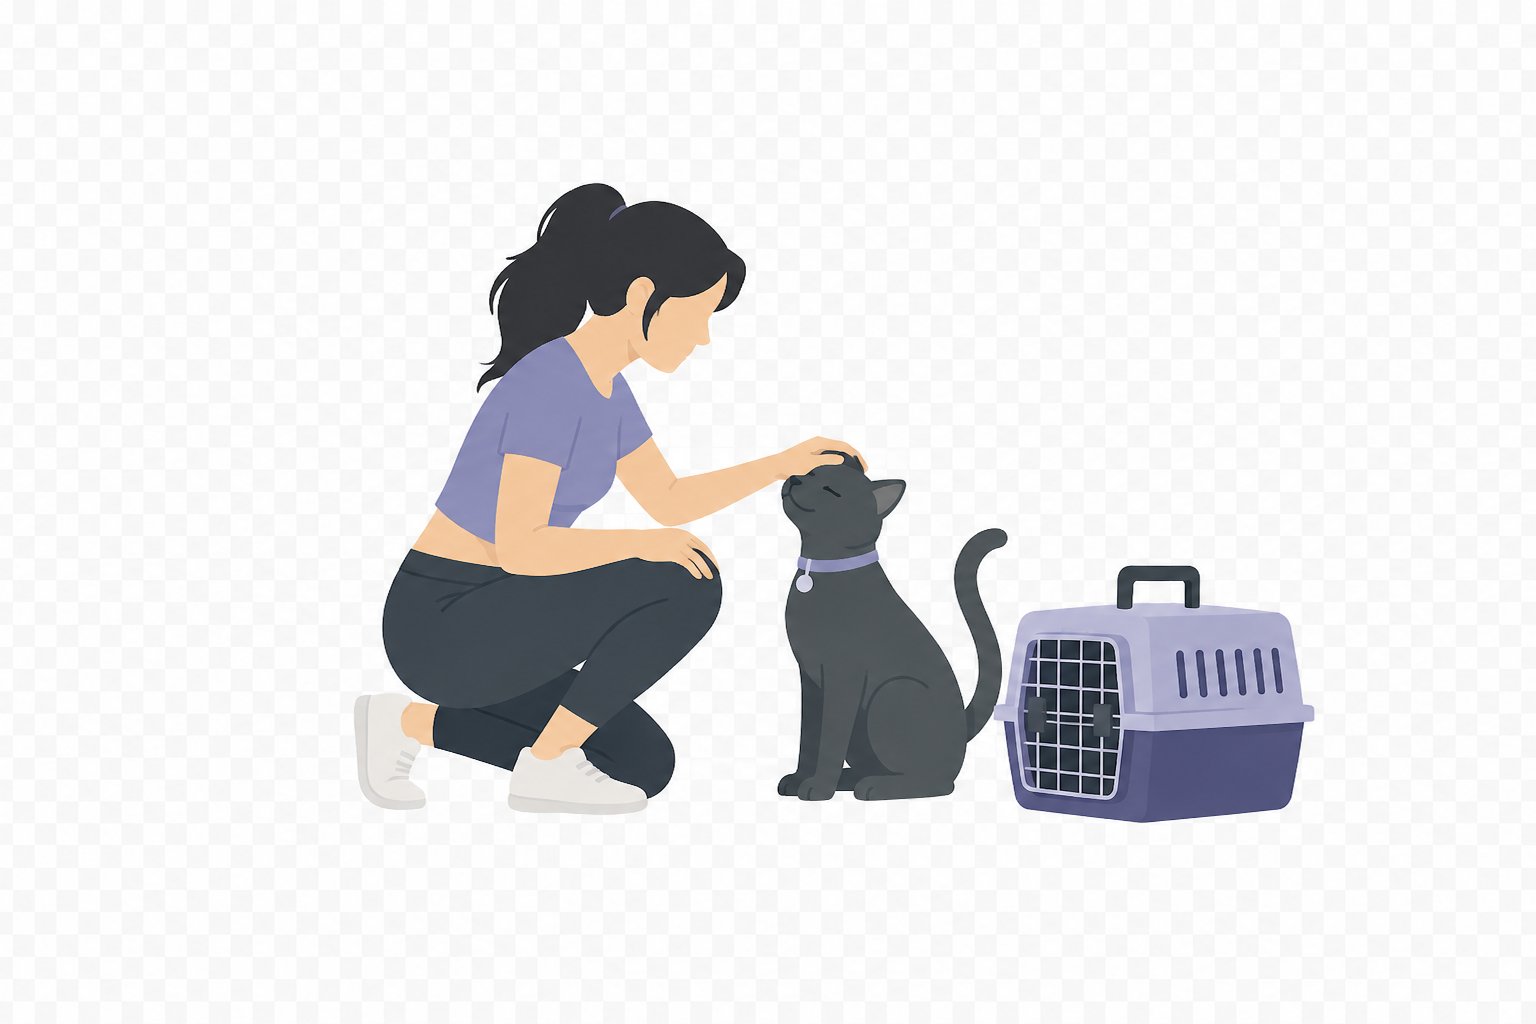
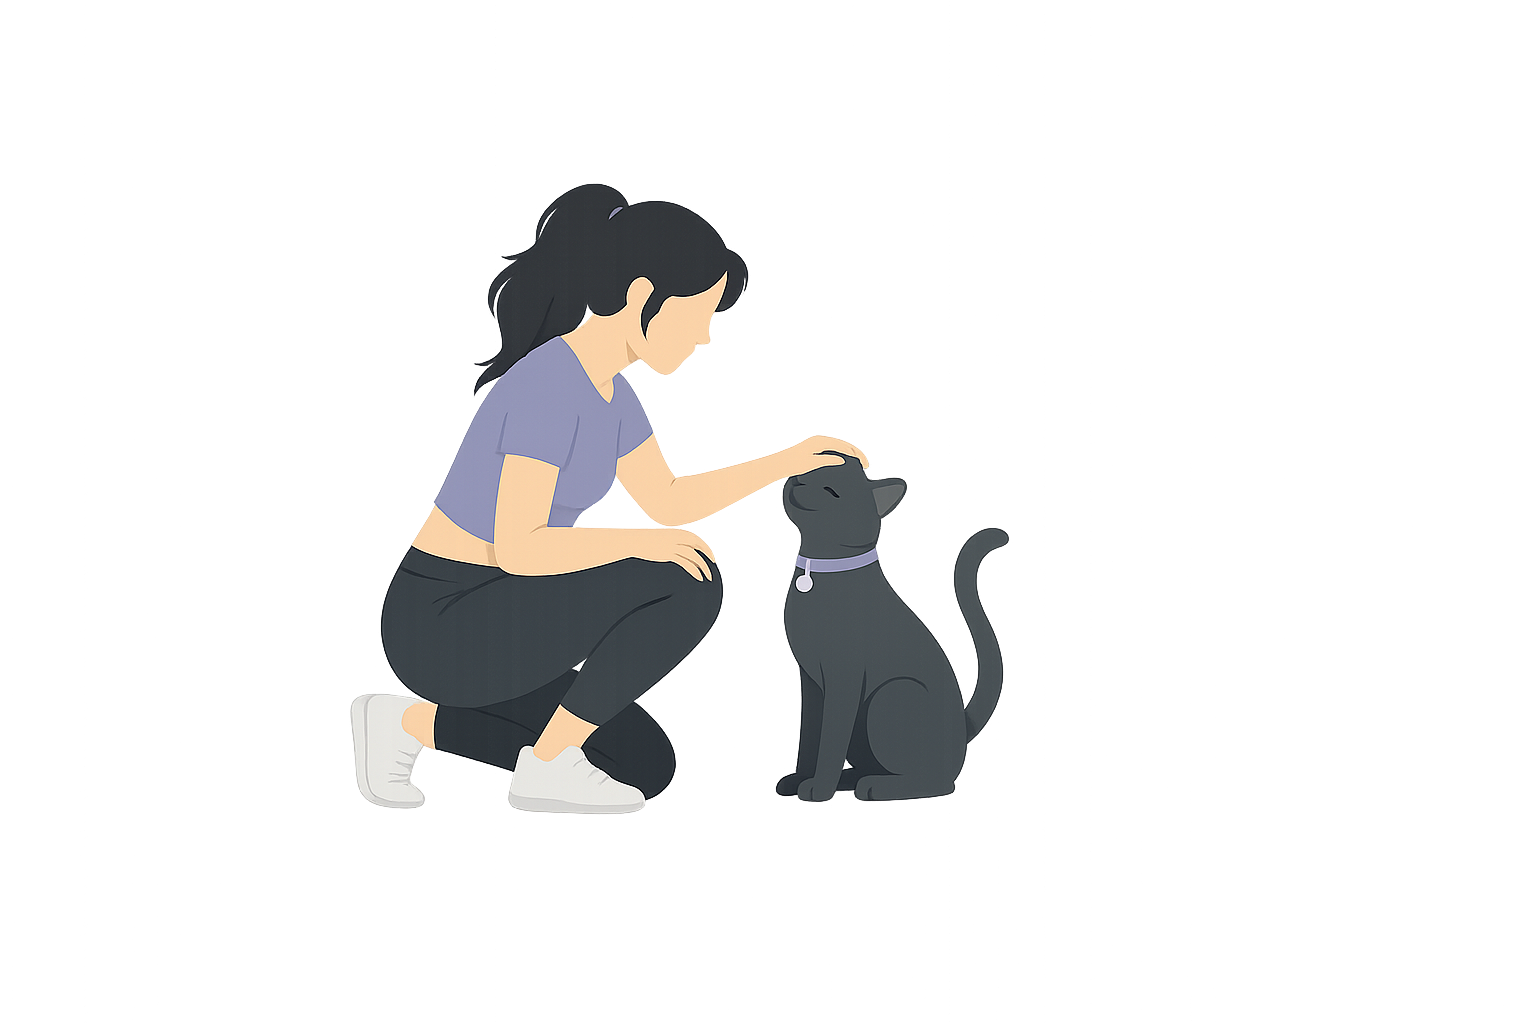
feat(hero): add dog_care to hero + update pet images
- 3 pets in hero background (desktop only):
  cat_home bottom-left / dog_care bottom-center peek / dog_walk bottom-right
- Updated cat_home.png and dog_care.png with new uploaded versions

diff --git a/garden-app/lib/screens/client/landing_screen.dart b/garden-app/lib/screens/client/landing_screen.dart
@@ -273,27 +273,42 @@ class _LandingState extends State<LandingScreen> {
                 Positioned(
                   left: 0, bottom: 0,
                   child: Opacity(
-                    opacity: pal.dark ? 0.22 : 0.48,
+                    opacity: pal.dark ? 0.20 : 0.46,
                     child: Image.asset(
                       'assets/images/pets/cat_home.png',
-                      height: heroH * 0.62,
+                      height: heroH * 0.60,
                       fit: BoxFit.contain,
                     ),
                   ).animate().fadeIn(delay: 700.ms, duration: 900.ms)
-                   .slideX(begin: -0.15, end: 0, delay: 700.ms, duration: 900.ms, curve: Curves.easeOutCubic),
+                   .slideX(begin: -0.12, end: 0, delay: 700.ms, duration: 900.ms, curve: Curves.easeOutCubic),
                 ),
-                // Perro — derecha
+                // Dog care — centro (peeking desde abajo, parcialmente oculto)
+                Positioned(
+                  bottom: -30, left: 0, right: 0,
+                  child: Center(
+                    child: Opacity(
+                      opacity: pal.dark ? 0.16 : 0.36,
+                      child: Image.asset(
+                        'assets/images/pets/dog_care.png',
+                        height: heroH * 0.48,
+                        fit: BoxFit.contain,
+                      ),
+                    ).animate().fadeIn(delay: 900.ms, duration: 900.ms)
+                     .slideY(begin: 0.12, end: 0, delay: 900.ms, duration: 900.ms, curve: Curves.easeOutCubic),
+                  ),
+                ),
+                // Perro caminando — derecha
                 Positioned(
                   right: 0, bottom: 0,
                   child: Opacity(
-                    opacity: pal.dark ? 0.22 : 0.48,
+                    opacity: pal.dark ? 0.20 : 0.46,
                     child: Image.asset(
                       'assets/images/pets/dog_walk.png',
-                      height: heroH * 0.68,
+                      height: heroH * 0.66,
                       fit: BoxFit.contain,
                     ),
-                  ).animate().fadeIn(delay: 850.ms, duration: 900.ms)
-                   .slideX(begin: 0.15, end: 0, delay: 850.ms, duration: 900.ms, curve: Curves.easeOutCubic),
+                  ).animate().fadeIn(delay: 800.ms, duration: 900.ms)
+                   .slideX(begin: 0.12, end: 0, delay: 800.ms, duration: 900.ms, curve: Curves.easeOutCubic),
                 ),
               ],
 